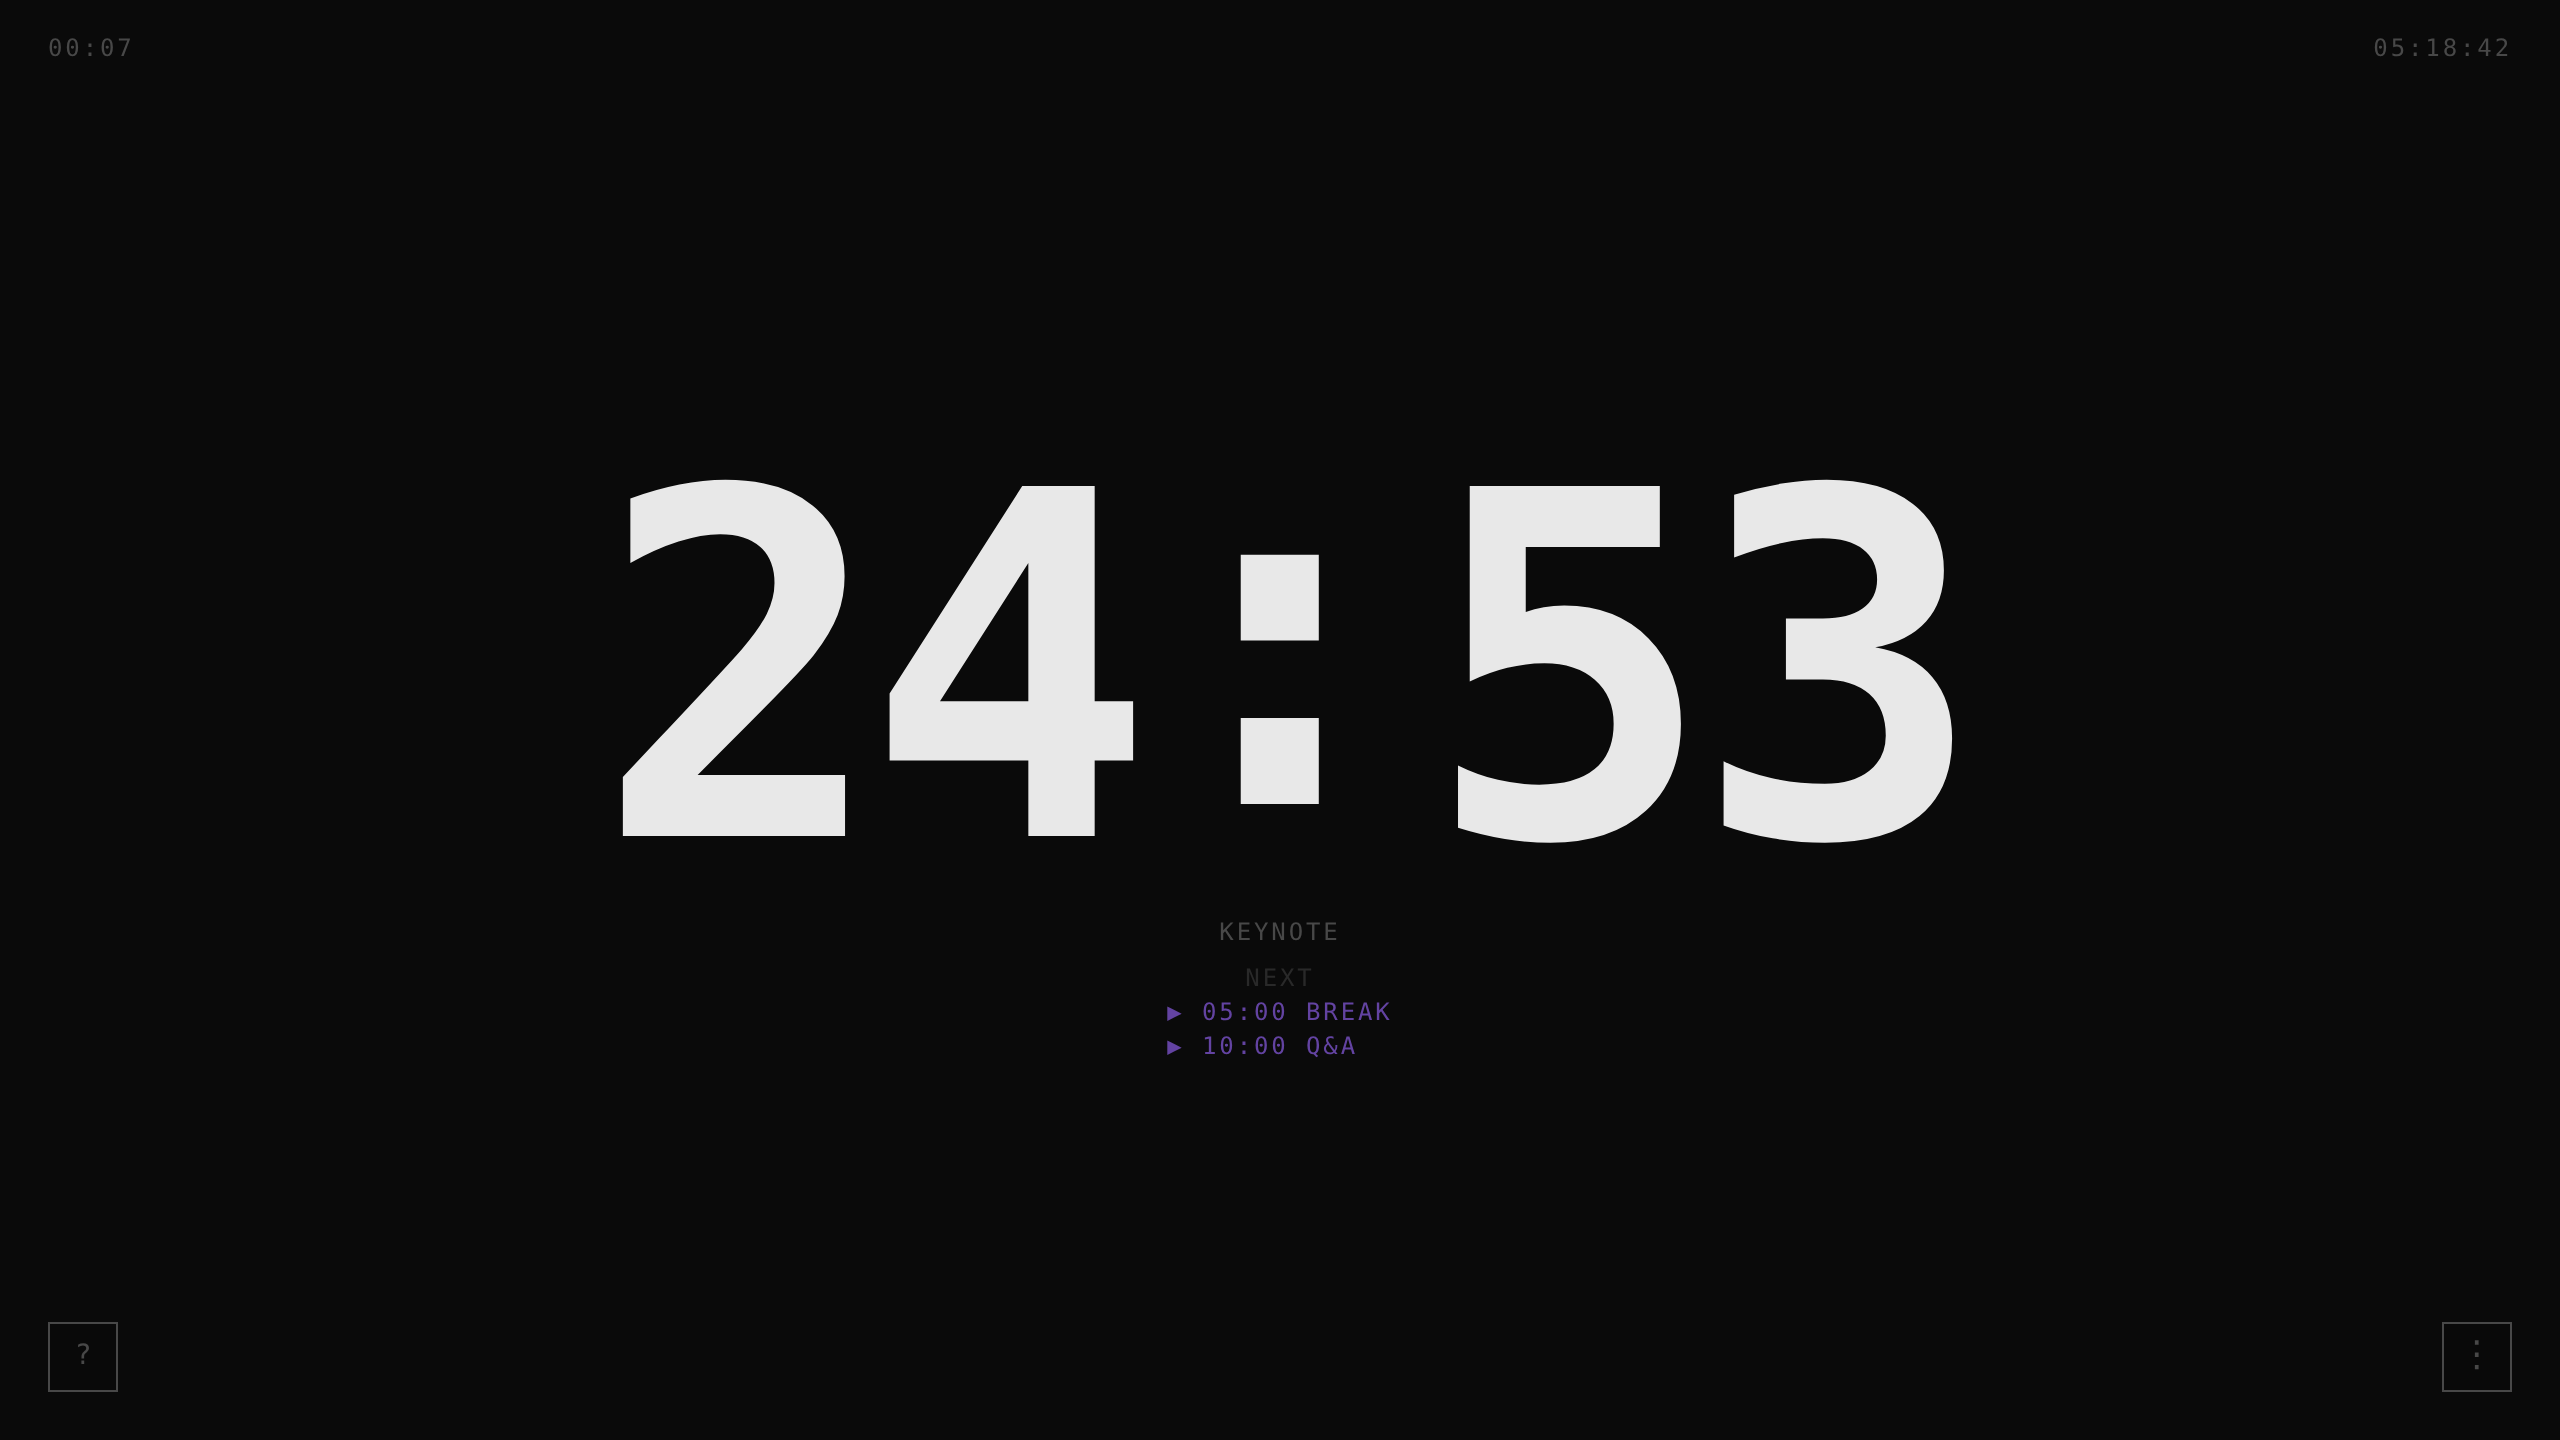
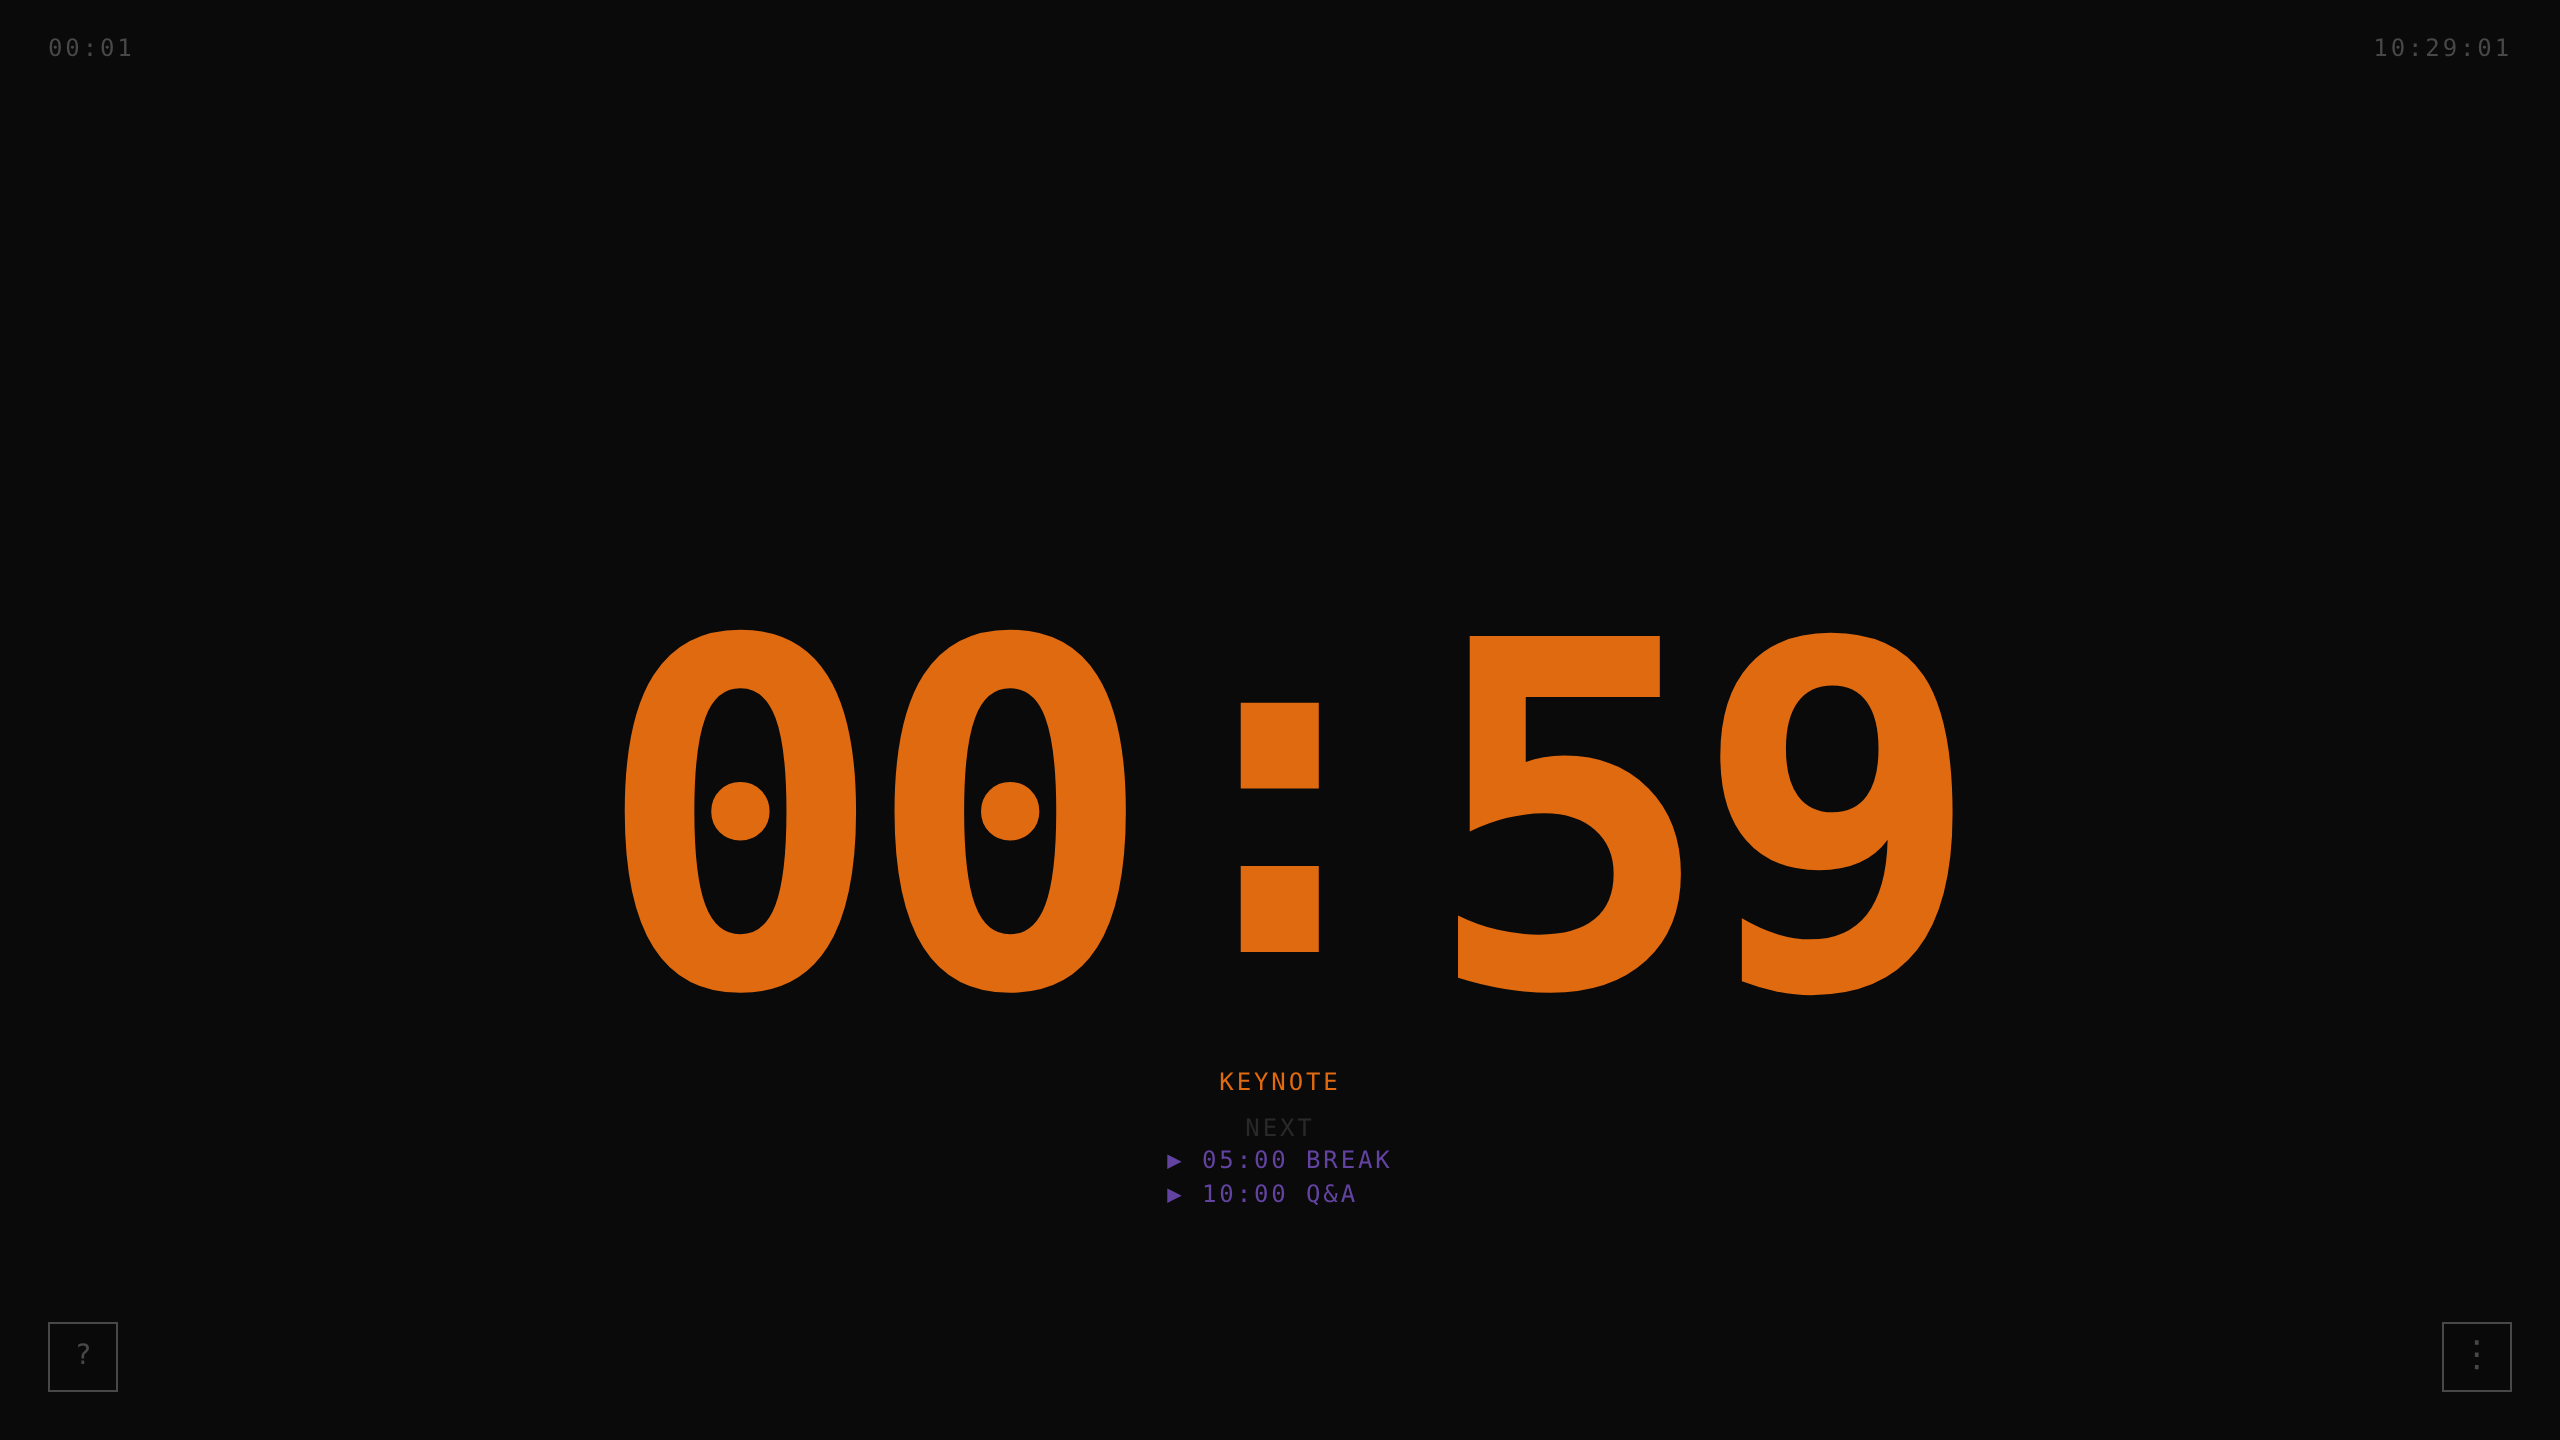
Retake the README screenshots at 00:59
Both themes now show a keynote's last minute: 00:59 in the second-warning
orange, with a break and Q&A queued. 59 falls on the dim half of that
warning's once-a-second flash, so the capture shows the bright half. Taken
at 1280x720, 2x, with a frozen clock; alt text updated to match.

Claude-Session: https://claude.ai/code/session_01C5ZAm2zn8MWES7A5tkf3AA

diff --git a/README.md b/README.md
@@ -7,7 +7,7 @@ No install. No build step. No server. Open `tick.html` and go.
 - Live: [acari.vercel.app](https://acari.vercel.app)
 - Source: [github.com/Arty2/tick](https://github.com/Arty2/tick)
 
-![/tick counting down a 25-minute keynote, with a break and Q&A queued next](./screenshots/ticker-screenshot_01.png)
+![/tick in its last minute of a keynote, at 00:59 in warning orange, with a break and Q&A queued next](./screenshots/ticker-screenshot_01.png)
 
 ---
 
